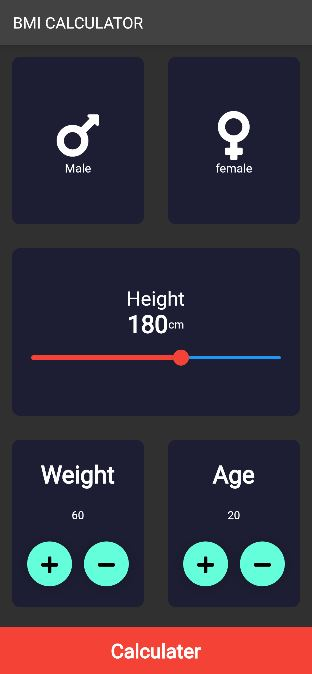
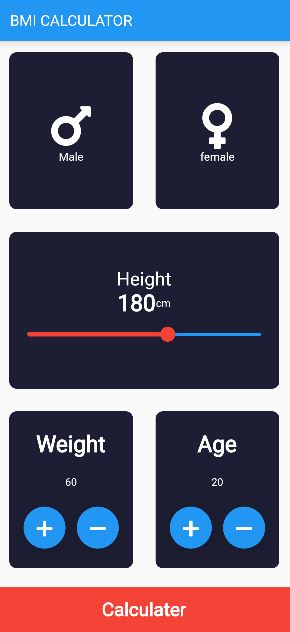
updating the colors scheme

diff --git a/lib/input_page.dart b/lib/input_page.dart
@@ -47,17 +47,20 @@ class _InputPageState extends State<InputPage> {
                 Expanded(
                    
                     child: RepeatContainerCode(
+                      
                       onpressed: (){
                         setState(() {
                           selectGender = Gender.male;
-                          mf = "Male";
+                          
                         });
                       },
                       colors: selectGender == Gender.male ? ActiveColor: deActiveColor,
                       cardWidget: IconTextFile(
-                        icon: FontAwesomeIcons.mars,
+                        icon: (FontAwesomeIcons.mars),
                         label: 'Male',
+                        
                       ),
+                      
                     )),
 
                     /////////first small part of first block
@@ -66,7 +69,7 @@ class _InputPageState extends State<InputPage> {
                       onpressed: (){
                         setState(() {
                           selectGender = Gender.female;
-                          mf = "Female";
+                          
                         });
                       },
                       colors: selectGender == Gender.female ? ActiveColor: deActiveColor,
@@ -88,12 +91,12 @@ class _InputPageState extends State<InputPage> {
               cardWidget: Column(
                 mainAxisAlignment: MainAxisAlignment.center,
                 children: [
-                  Text("Height", style: TextStyle(fontSize: 25.0),),
+                  Text("Height", style: TextStyle(fontSize: 25.0, color: Colors.white),),
                   Row(
                     mainAxisAlignment: MainAxisAlignment.center,
                     children: [
-                      Text(sliderHeight.toString(), style: TextStyle(fontSize: 30.0, fontWeight: FontWeight.bold),),
-                      Text("cm"),
+                      Text(sliderHeight.toString(), style: TextStyle(fontSize: 30.0, fontWeight: FontWeight.bold, color: Colors.white),),
+                      Text("cm", style: TextStyle(color: Colors.white) ),
                       
                   ],
                   ),
@@ -126,11 +129,11 @@ class _InputPageState extends State<InputPage> {
                   cardWidget: Column(
                     mainAxisAlignment: MainAxisAlignment.center,
                     children: [
-                      Text("Weight", style: TextStyle(fontSize: 30, fontWeight: FontWeight.bold),),
+                      Text("Weight", style: TextStyle(fontSize: 30, fontWeight: FontWeight.bold, color: Colors.white),),
                        SizedBox(
                             height: 25.0,
                       ),
-                      Text(incrementAndDecrement.toString()),
+                      Text(incrementAndDecrement.toString(), style: TextStyle(color: Colors.white), ),
                       SizedBox(
                             height: 25.0,
                       ),
@@ -167,11 +170,11 @@ class _InputPageState extends State<InputPage> {
                   cardWidget: Column(
                     mainAxisAlignment: MainAxisAlignment.center,
                     children: [
-                      Text("Age", style: TextStyle(fontSize: 30, fontWeight: FontWeight.bold),),
+                      Text("Age", style: TextStyle(fontSize: 30, fontWeight: FontWeight.bold, color: Colors.white),),
                        SizedBox(
                             height: 25.0,
                       ),
-                      Text(AgeincrementAndDecrement.toString()),
+                      Text(AgeincrementAndDecrement.toString(), style: TextStyle(color: Colors.white) ),
                       SizedBox(
                             height: 25.0,
                       ),
@@ -219,7 +222,7 @@ class _InputPageState extends State<InputPage> {
               },
               child: Container(
                 
-                    child: Center(child: Text("Calculater", style: TextStyle(fontSize: 25.0, fontWeight: FontWeight.bold),)),
+                    child: Center(child: Text("Calculater", style: TextStyle(fontSize: 25.0, fontWeight: FontWeight.bold, color: Colors.white),)),
                     color: Colors.red,
                     margin: EdgeInsets.only(top: 10),
                     width: double.infinity,

diff --git a/lib/resultFile.dart b/lib/resultFile.dart
@@ -27,7 +27,7 @@ class resultScreen extends StatelessWidget {
           //////////////////////First Expanded Widget
           Expanded(child: Center(
             child: Text("Your Result", style: TextStyle(
-              fontSize: 30.0,
+              fontSize: 40.0,
               fontWeight: FontWeight.bold
             ),),
           )),
@@ -40,9 +40,9 @@ class resultScreen extends StatelessWidget {
                 mainAxisAlignment: MainAxisAlignment.spaceEvenly,
                 crossAxisAlignment: CrossAxisAlignment.stretch,
                 children:[
-                  Center(child: Text(bmiText, style: TextStyle(fontSize: 18.0, color: Colors.greenAccent),)),
-                  Center(child: Text(bmiResult)),
-                  Center(child: Text(interpretation)),
+                  Center(child: Text(bmiText, style: TextStyle(fontSize: 30.0, color: Colors.greenAccent),)),
+                  Center(child: Text(bmiResult, style: TextStyle(fontSize: 25.0, color: Colors.white),)),
+                  Center(child: Text(interpretation, style: TextStyle(fontSize: 20.0, color: Colors.white),)),
                 ]
               ),
           ),
@@ -55,7 +55,7 @@ class resultScreen extends StatelessWidget {
               },
               child: Container(
                 
-                    child: Center(child: Text("Recalculate", style: TextStyle(fontSize: 25.0, fontWeight: FontWeight.bold),)),
+                    child: Center(child: Text("Recalculate", style: TextStyle(fontSize: 25.0, fontWeight: FontWeight.bold, color: Colors.white ),)),
                     color: Colors.red,
                     margin: EdgeInsets.only(top: 10),
                     width: double.infinity,

diff --git a/lib/IconTextFile.dart b/lib/IconTextFile.dart
@@ -15,9 +15,11 @@ final String label;
         Icon(
           icon,
         size: 70.0,
+        color: Colors.white,
         ),
         Text(label, style: TextStyle(
-          fontSize: 15.0
+          fontSize: 15.0,
+          color: Colors.white,
         ),
         ),
       ],

diff --git a/lib/main.dart b/lib/main.dart
@@ -11,7 +11,7 @@ class BMICalculator extends StatelessWidget {
     return MaterialApp(
       debugShowCheckedModeBanner: false,
       home: InputPage(),
-    theme: ThemeData.dark(),
+    // theme: ThemeData.dark(),
     );
   }
 }
